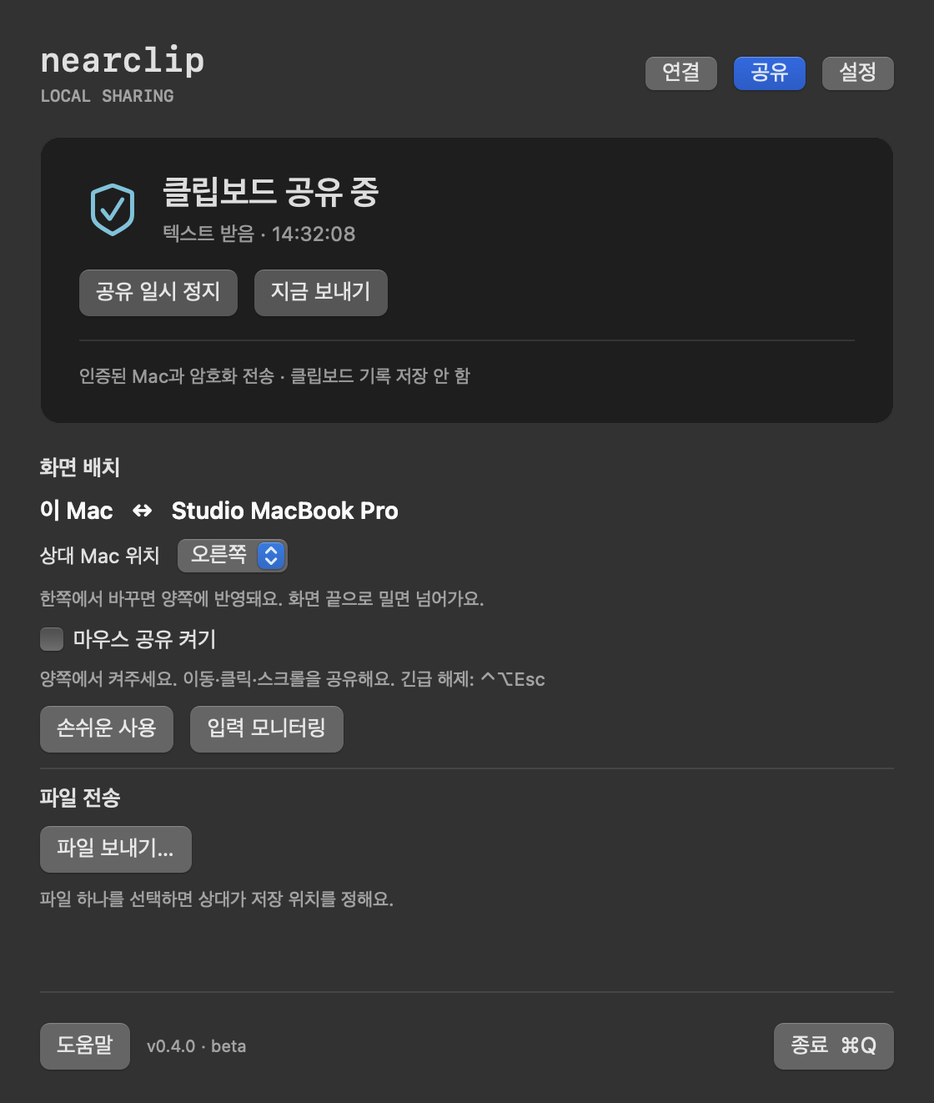
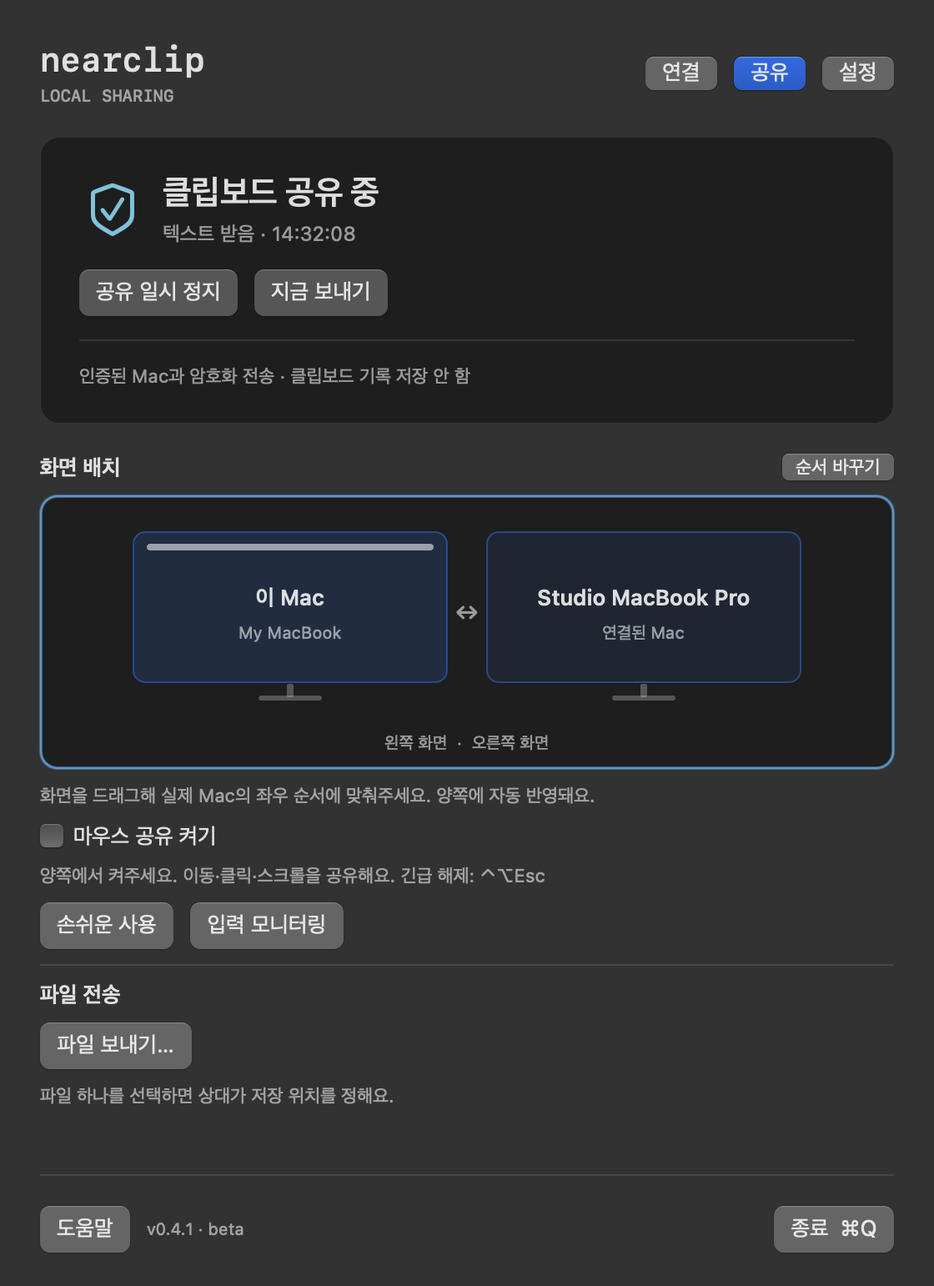
Add draggable Mac screen arrangement controls

diff --git a/Sources/App.swift b/Sources/App.swift
@@ -15,8 +15,9 @@ final class AppDelegate: NSObject, NSApplicationDelegate, NSWindowDelegate {
     private var fileCancel: NSButton!
     private var revealButton: NSButton!
     private var mouseToggle: NSButton!
-    private var sidePicker = NSPopUpButton(frame: .zero, pullsDown: false)
-    private let layoutLabel = NSTextField(wrappingLabelWithString: "연결한 Mac의 화면 배치를 여기서 정해요.")
+    private let arrangement = ScreenArrangementView(frame: .zero)
+    private var swapScreens: NSButton!
+    private let arrangementHint = NSTextField(wrappingLabelWithString: "화면을 드래그해 실제 Mac의 좌우 순서에 맞춰주세요.")
     private let mouseHint = NSTextField(wrappingLabelWithString: "양쪽에서 마우스 공유를 켜주세요.")
     private let fileLabel = NSTextField(wrappingLabelWithString: "파일 하나를 선택하면 상대가 저장 위치를 정해요.")
     private let fileProgress = NSProgressIndicator()
@@ -319,10 +320,16 @@ final class AppDelegate: NSObject, NSApplicationDelegate, NSWindowDelegate {
         ], spacing: 12)
         connect.view = inset(column([discoveryView, trustedView], spacing: 0))
         let sharing = NSTabViewItem(identifier: "sharing"); sharing.label = "공유"
-        sidePicker.addItems(withTitles: ["왼쪽", "오른쪽"]); sidePicker.selectItem(at: 1)
-        sidePicker.target = self; sidePicker.action = #selector(changeSide)
-        sidePicker.setAccessibilityLabel("상대 Mac의 화면 위치")
-        layoutLabel.font = .systemFont(ofSize: 14, weight: .semibold); layoutLabel.maximumNumberOfLines = 2
+        arrangement.heightAnchor.constraint(equalToConstant: 164).isActive = true
+        arrangement.onCommit = { [weak self] side in
+            guard let self, self.featurePeer?.features.contains(SharingFeature.mouse) == true, !self.mouse.active else { return }
+            self.mouse.setSide(side)
+        }
+        swapScreens = button("순서 바꾸기", action: #selector(swapScreenOrder))
+        swapScreens.controlSize = .small
+        swapScreens.setAccessibilityLabel("두 Mac의 화면 순서 바꾸기")
+        arrangementHint.font = .systemFont(ofSize: 11); arrangementHint.textColor = .secondaryLabelColor
+        arrangementHint.maximumNumberOfLines = 2
         mouseToggle = NSButton(checkboxWithTitle: "마우스 공유 켜기", target: self, action: #selector(toggleMouse))
         mouseHint.font = .systemFont(ofSize: 11); mouseHint.textColor = .secondaryLabelColor
         fileButton = button("파일 보내기…", action: #selector(sendFile))
@@ -333,9 +340,8 @@ final class AppDelegate: NSObject, NSApplicationDelegate, NSWindowDelegate {
         fileProgress.isIndeterminate = false; fileProgress.minValue = 0; fileProgress.maxValue = 1
         fileProgress.style = .bar; fileProgress.isHidden = true
         sharing.view = inset(column([
-            label("화면 배치", size: 13, weight: .semibold), layoutLabel,
-            row([label("상대 Mac 위치", size: 12), sidePicker, flexible(NSView())]),
-            label("한쪽에서 바꾸면 양쪽에 반영돼요. 화면 끝으로 밀면 넘어가요.", size: 11, color: .secondaryLabelColor),
+            row([flexible(label("화면 배치", size: 13, weight: .semibold)), swapScreens]),
+            arrangement, arrangementHint,
             mouseToggle, mouseHint,
             row([button("손쉬운 사용", action: #selector(accessibilitySettings)), button("입력 모니터링", action: #selector(inputSettings)), flexible(NSView())]),
             separator(), label("파일 전송", size: 13, weight: .semibold),
@@ -585,7 +591,7 @@ final class AppDelegate: NSObject, NSApplicationDelegate, NSWindowDelegate {
         guard let tabView, let window else { return }
         let settings = tabView.selectedTabViewItem?.identifier as? String == "settings"
         let sharing = tabView.selectedTabViewItem?.identifier as? String == "sharing"
-        let height: CGFloat = sharing ? (fileProgress.isHidden ? 304 : 326) : settings ? 250 : (access.isOpen ? (advanced ? 342 : 228) : 108)
+        let height: CGFloat = sharing ? (fileProgress.isHidden ? 414 : 436) : settings ? 250 : (access.isOpen ? (advanced ? 342 : 228) : 108)
         tabHeight.constant = height
         window.contentView?.layoutSubtreeIfNeeded()
         let contentHeight = ceil(mainStack.fittingSize.height + 44)
@@ -678,6 +684,48 @@ final class AppDelegate: NSObject, NSApplicationDelegate, NSWindowDelegate {
         try? mouse.setEnabled(true); toggleSharing()
         require(!mouse.enabled && !enabled, "global pause revokes mouse capture")
         toggleSharing()
+        // Exercise arrangement gestures through AppKit events without posting
+        // system input. A synthetic peer verifies the actual layout callbacks.
+        let other = MouseSharing(local: "arrangement-peer", native: false)
+        other.setPeer(device)
+        let originalSend = mouse.send
+        mouse.send = { [weak other] _, packet, reply in other?.receive(packet, from: self.device); reply(true) }
+        updateFeaturePeer([ConnectedPeer(device: "arrangement-peer", name: "Test Mac", connection: UUID(), features: Set(SharingFeature.supported))])
+        mouse.setSide(.right)
+        let left = CGPoint(x: arrangement.bounds.midX - 110, y: 60)
+        let right = CGPoint(x: arrangement.bounds.midX + 110, y: 60)
+        func gesture(_ type: NSEvent.EventType, _ point: CGPoint) {
+            let location = arrangement.convert(point, to: nil)
+            let event = NSEvent.mouseEvent(with: type, location: location, modifierFlags: [], timestamp: 0, windowNumber: window.windowNumber, context: nil, eventNumber: 1, clickCount: 1, pressure: 0)!
+            switch type {
+            case .leftMouseDown: arrangement.mouseDown(with: event)
+            case .leftMouseDragged: arrangement.mouseDragged(with: event)
+            default: arrangement.mouseUp(with: event)
+            }
+        }
+        let beforeDrag = mouse.layout
+        gesture(.leftMouseDown, right); gesture(.leftMouseDragged, left)
+        require(mouse.layout == beforeDrag && other.layout == beforeDrag, "drag preview does not publish a layout")
+        gesture(.leftMouseUp, left)
+        require(mouse.side == .left && other.side == .right && mouse.layout == other.layout, "dropping peer card updates both Mac layouts")
+        let afterDrop = mouse.layout
+        gesture(.leftMouseDown, right); gesture(.leftMouseUp, right)
+        require(mouse.layout == afterDrop, "clicking a monitor does not rearrange it")
+        gesture(.leftMouseDown, right); gesture(.leftMouseDragged, left)
+        let escape = NSEvent.keyEvent(with: .keyDown, location: .zero, modifierFlags: [], timestamp: 0, windowNumber: window.windowNumber, context: nil, characters: "\u{1b}", charactersIgnoringModifiers: "\u{1b}", isARepeat: false, keyCode: 53)!
+        arrangement.keyDown(with: escape); gesture(.leftMouseUp, left)
+        require(mouse.layout == afterDrop, "Escape cancels a pending arrangement")
+        gesture(.leftMouseDown, right); gesture(.leftMouseDragged, left); gesture(.leftMouseUp, CGPoint(x: -20, y: 60))
+        require(mouse.layout == afterDrop, "dropping outside the canvas keeps the layout")
+        gesture(.leftMouseDown, right); gesture(.leftMouseDragged, left); gesture(.leftMouseUp, left)
+        require(mouse.side == .right && mouse.layout == other.layout, "dragging this Mac also updates both layouts")
+        swapScreens.performClick(nil)
+        require(mouse.side == .left && mouse.layout == other.layout, "accessible swap button updates both Mac layouts")
+        gesture(.leftMouseDown, right); gesture(.leftMouseDragged, left)
+        updateFeaturePeer([])
+        gesture(.leftMouseUp, left)
+        require(mouse.layout == nil && !swapScreens.isEnabled, "disconnect cancels arrangement editing")
+        mouse.send = originalSend
         showSettings(); require(tabView.selectedTabViewItem?.identifier as? String == "settings", "settings navigation")
         access = PairingAccess(hasTrustedPeer: true); refresh()
         require(!access.isOpen && discoveryView.isHidden, "trusted peer hides new pairing controls")
@@ -747,7 +795,7 @@ final class AppDelegate: NSObject, NSApplicationDelegate, NSWindowDelegate {
     @objc private func help() {
         let dialog = NSAlert(); dialog.messageText = "두 Mac에서 NearClip을 켜두세요"
         dialog.informativeText = "① 두 Mac 모두 NearClip 0.3 이상을 켜고 같은 Wi-Fi 또는 LAN에 연결하세요.\n② 한쪽에서 상대 Mac 옆의 ‘연결’을 누르세요.\n③ 양쪽 화면의 6자리 숫자가 같으면 두 Mac에서 모두 연결을 누르세요. 숫자를 전달하거나 입력할 필요 없어요.\n④ 연결됨이 표시되면 새로 복사한 텍스트나 이미지를 다른 Mac에 붙여넣으세요.\n\n권한 요청이 나오면 ‘로컬 네트워크’와 ‘다른 앱에서 붙여넣기’를 허용하세요. 거부했다면 시스템 설정 → 개인정보 보호 및 보안에서 변경할 수 있어요.\n\n텍스트와 실제 이미지 클립보드를 지원해요. Finder의 파일 복사는 지원하지 않아요. 이미지는 20MB·4천만 화소까지예요.\n\n연결 전·일시 정지 중 복사한 내용은 자동 전송하지 않아요. 필요하면 ‘지금 보내기’를 누르세요. 암호 관리자가 비공개로 표시한 내용은 공유하지 않아요.\n\n설정에서 연결 해제를 누르면 기존 연결이 끊어져요. 회사·게스트 Wi-Fi에서 기기 간 통신을 막으면 연결할 수 없어요."
-        dialog.informativeText += "\n\n공유 탭에서 파일을 보내거나 화면 배치를 정할 수 있어요. 마우스 공유는 양쪽에서 직접 켜야 해요. 화면 가장자리로 밀어 이동하고 ⌃⌥Esc로 즉시 끄세요. 키보드 입력은 이 Mac에 남아요. 파일은 상대가 저장 위치를 선택해야 전송돼요."
+        dialog.informativeText += "\n\n공유 탭에서 파일을 보내거나 두 Mac 화면을 드래그해 좌우 순서를 정할 수 있어요. 배치는 양쪽에 반영돼요. 마우스 공유는 양쪽에서 직접 켜야 해요. 화면 가장자리로 밀어 이동하고 ⌃⌥Esc로 즉시 끄세요. 키보드 입력은 이 Mac에 남아요. 파일은 상대가 저장 위치를 선택해야 전송돼요."
         dialog.addButton(withTitle: "확인"); dialog.runModal()
     }
     private func alert(_ message: String) {
@@ -793,19 +841,24 @@ final class AppDelegate: NSObject, NSApplicationDelegate, NSWindowDelegate {
         let supportsFiles = featurePeer?.features.contains(SharingFeature.files) == true
         let supportsMouse = featurePeer?.features.contains(SharingFeature.mouse) == true
         fileButton.isEnabled = enabled && supportsFiles && !files.busy
-        sidePicker.isEnabled = supportsMouse && !mouse.active
+        swapScreens.isEnabled = supportsMouse && !mouse.active
         mouseToggle.isEnabled = enabled && supportsMouse
         mouseToggle.state = mouse.enabled ? .on : .off
-        sidePicker.selectItem(at: mouse.side == .left ? 0 : 1)
-        let name = featurePeer?.name ?? "상대 Mac"
-        layoutLabel.stringValue = mouse.side == .right ? "이 Mac   ↔   " + name : name + "   ↔   이 Mac"
+        arrangement.update(peerID: supportsMouse ? featurePeer?.connection.uuidString : nil,
+                           localName: preview ? "My MacBook" : deviceName,
+                           peerName: featurePeer?.name ?? "상대 Mac", side: mouse.side,
+                           editable: supportsMouse && !mouse.active)
+        arrangementHint.stringValue = mouse.active ? "마우스 제어를 끝낸 뒤 배치를 바꿀 수 있어요. ⌃⌥Esc로 공유를 끄세요." : "화면을 드래그해 실제 Mac의 좌우 순서에 맞춰주세요. 양쪽에 자동 반영돼요."
         if !supportsMouse { mouseHint.stringValue = "두 Mac 모두 0.4 이상으로 연결하면 사용할 수 있어요." }
         else if !mouse.enabled { mouseHint.stringValue = "양쪽에서 켜주세요. 이동·클릭·스크롤을 공유해요. 긴급 해제: ⌃⌥Esc" }
         else if !mouse.remoteEnabled { mouseHint.stringValue = "이 Mac은 준비됐어요. 상대 Mac에서도 마우스 공유를 켜주세요." }
         else { mouseHint.stringValue = "준비됐어요. 가장자리로 밀어 이동하세요. ⌃⌥Esc는 공유를 꺼요." }
         menuMouseStop?.isEnabled = mouse.enabled
     }
-    @objc private func changeSide() { mouse.setSide(sidePicker.indexOfSelectedItem == 0 ? .left : .right) }
+    @objc private func swapScreenOrder() {
+        guard featurePeer?.features.contains(SharingFeature.mouse) == true, !mouse.active else { return }
+        mouse.setSide(mouse.side.opposite)
+    }
     @objc private func toggleMouse() {
         do { try mouse.setEnabled(mouseToggle.state == .on) }
         catch {

diff --git a/Sources/ScreenArrangementView.swift b/Sources/ScreenArrangementView.swift
@@ -1,0 +1,137 @@
+import AppKit
+
+// Each card represents one paired Mac. Only a completed horizontal drop commits.
+final class ScreenArrangementView: NSView {
+    private(set) var peerSide: ScreenSide = .right
+    private var peerID: String?
+    private var localName = "이 Mac"
+    private var peerName = "상대 Mac"
+    private var editable = false
+    private var draggingLocal: Bool?
+    private var dragStart = CGPoint.zero
+    private var dragOffset: CGFloat = 0
+    private var dragCenter: CGFloat = 0
+    private var proposedSide: ScreenSide = .right
+    private var moved = false
+    var onCommit: ((ScreenSide) -> Void)?
+
+    override var isFlipped: Bool { true }
+    override var acceptsFirstResponder: Bool { editable }
+    override var intrinsicContentSize: NSSize { NSSize(width: NSView.noIntrinsicMetric, height: 164) }
+    override init(frame frameRect: NSRect) {
+        super.init(frame: frameRect)
+        setAccessibilityElement(true); setAccessibilityRole(.group)
+        setAccessibilityLabel("Mac 화면 배치")
+        setAccessibilityHelp("두 Mac의 좌우 순서입니다. 순서 바꾸기 버튼으로도 변경할 수 있습니다.")
+        toolTip = "화면을 드래그해 순서를 바꾸세요. 선택 후 방향키로 상대 Mac을 왼쪽이나 오른쪽에 놓을 수도 있어요."
+    }
+    required init?(coder: NSCoder) { fatalError("init(coder:) has not been implemented") }
+
+    func update(peerID: String?, localName: String, peerName: String, side: ScreenSide, editable: Bool) {
+        if self.peerID != peerID || peerSide != side || !editable { cancelDrag() }
+        self.peerID = peerID; self.localName = localName; self.peerName = peerName
+        peerSide = side; self.editable = editable
+        setAccessibilityValue(peerID == nil ? "상대 Mac 연결 대기" : (side == .right ? "이 Mac 왼쪽, \(peerName) 오른쪽" : "\(peerName) 왼쪽, 이 Mac 오른쪽"))
+        window?.invalidateCursorRects(for: self); needsDisplay = true
+    }
+    private var cardSize: NSSize { NSSize(width: min(188, max(100, (bounds.width - 64) / 2)), height: 112) }
+    private func slot(_ side: ScreenSide) -> NSRect {
+        let size = cardSize
+        return NSRect(x: bounds.midX + (side == .left ? -size.width - 12 : 12), y: 22, width: size.width, height: size.height)
+    }
+    private func frame(local: Bool, side: ScreenSide) -> NSRect { slot(local ? side.opposite : side) }
+    private func dragFrame() -> NSRect { NSRect(x: dragCenter - cardSize.width / 2, y: 18, width: cardSize.width, height: cardSize.height) }
+    override func resetCursorRects() {
+        guard editable else { return }
+        addCursorRect(slot(.left), cursor: .openHand); addCursorRect(slot(.right), cursor: .openHand)
+    }
+    override func mouseDown(with event: NSEvent) {
+        guard editable, peerID != nil else { return }
+        let point = convert(event.locationInWindow, from: nil)
+        let local = frame(local: true, side: peerSide).contains(point)
+        guard local || frame(local: false, side: peerSide).contains(point) else { return }
+        window?.makeFirstResponder(self)
+        draggingLocal = local; dragStart = point; moved = false; proposedSide = peerSide
+        dragCenter = frame(local: local, side: peerSide).midX; dragOffset = point.x - dragCenter
+        NSCursor.closedHand.set(); needsDisplay = true
+    }
+    override func mouseDragged(with event: NSEvent) {
+        guard let local = draggingLocal, editable else { return }
+        let point = convert(event.locationInWindow, from: nil)
+        if abs(point.x - dragStart.x) >= 4 { moved = true }
+        guard moved else { return }
+        dragCenter = min(bounds.maxX - cardSize.width / 2 - 8, max(cardSize.width / 2 + 8, point.x - dragOffset))
+        // A dead band prevents rapid slot changes near the midpoint.
+        if dragCenter < bounds.midX - 8 { proposedSide = local ? .right : .left }
+        else if dragCenter > bounds.midX + 8 { proposedSide = local ? .left : .right }
+        needsDisplay = true
+    }
+    override func mouseUp(with event: NSEvent) {
+        guard draggingLocal != nil else { return }
+        let point = convert(event.locationInWindow, from: nil)
+        let commit = editable && moved && bounds.contains(point) && proposedSide != peerSide
+        let result = proposedSide; cancelDrag()
+        if commit { onCommit?(result) }
+    }
+    override func keyDown(with event: NSEvent) {
+        if event.keyCode == 53 { cancelDrag(); return }
+        if editable, event.keyCode == 123 || event.keyCode == 124 {
+            cancelDrag()
+            let side: ScreenSide = event.keyCode == 123 ? .left : .right
+            if side != peerSide { onCommit?(side) }
+            return
+        }
+        super.keyDown(with: event)
+    }
+    override func resignFirstResponder() -> Bool { cancelDrag(); return true }
+    private func cancelDrag() {
+        draggingLocal = nil; moved = false; proposedSide = peerSide
+        window?.invalidateCursorRects(for: self); needsDisplay = true
+    }
+    override func draw(_ dirtyRect: NSRect) {
+        let background = NSBezierPath(roundedRect: bounds.insetBy(dx: 0.5, dy: 0.5), xRadius: 10, yRadius: 10)
+        NSColor.controlBackgroundColor.setFill(); background.fill()
+        NSColor.separatorColor.withAlphaComponent(0.4).setStroke(); background.lineWidth = 1; background.stroke()
+        let side = draggingLocal == nil ? peerSide : proposedSide
+        if let local = draggingLocal {
+            let target = NSBezierPath(roundedRect: frame(local: local, side: side).insetBy(dx: -4, dy: -4), xRadius: 10, yRadius: 10)
+            NSColor.controlAccentColor.withAlphaComponent(0.08).setFill(); target.fill()
+            NSColor.controlAccentColor.withAlphaComponent(0.45).setStroke(); target.setLineDash([4, 4], count: 2, phase: 0); target.stroke()
+            drawCard(local: !local, rect: frame(local: !local, side: side), lifted: false)
+            drawCard(local: local, rect: dragFrame(), lifted: true)
+        } else {
+            drawCard(local: true, rect: frame(local: true, side: side), lifted: false)
+            drawCard(local: false, rect: frame(local: false, side: side), lifted: false)
+            if peerID != nil { drawText("↔", rect: NSRect(x: bounds.midX - 12, y: 61, width: 24, height: 24), size: 16, color: .secondaryLabelColor) }
+        }
+        let caption = peerID == nil ? "연결하면 화면을 배치할 수 있어요" : draggingLocal == nil ? "왼쪽 화면  ·  오른쪽 화면" : "놓으면 양쪽 Mac에 적용돼요"
+        drawText(caption, rect: NSRect(x: 12, y: 142, width: bounds.width - 24, height: 16), size: 10, color: .secondaryLabelColor)
+        if window?.firstResponder === self, editable {
+            NSColor.keyboardFocusIndicatorColor.setStroke(); background.lineWidth = 2; background.stroke()
+        }
+    }
+    private func drawCard(local: Bool, rect: NSRect, lifted: Bool) {
+        let screen = NSRect(x: rect.minX, y: rect.minY, width: rect.width, height: rect.height - 22)
+        let connected = local || peerID != nil
+        let body = NSBezierPath(roundedRect: screen, xRadius: 7, yRadius: 7)
+        NSGraphicsContext.saveGraphicsState()
+        if lifted { let shadow = NSShadow(); shadow.shadowBlurRadius = 8; shadow.shadowOffset = NSSize(width: 0, height: -3); shadow.shadowColor = NSColor.black.withAlphaComponent(0.22); shadow.set() }
+        (connected ? NSColor.controlAccentColor.withAlphaComponent(local ? 0.16 : 0.09) : NSColor.quaternaryLabelColor.withAlphaComponent(0.12)).setFill(); body.fill()
+        NSGraphicsContext.restoreGraphicsState()
+        (connected ? NSColor.controlAccentColor.withAlphaComponent(lifted ? 0.9 : 0.45) : NSColor.separatorColor).setStroke()
+        body.lineWidth = lifted ? 2 : 1; body.stroke()
+        if local {
+            NSColor.labelColor.withAlphaComponent(0.55).setFill()
+            NSBezierPath(roundedRect: NSRect(x: screen.minX + 8, y: screen.minY + 7, width: screen.width - 16, height: 4), xRadius: 2, yRadius: 2).fill()
+        }
+        drawText(local ? "이 Mac" : peerName, rect: NSRect(x: screen.minX + 10, y: screen.minY + 31, width: screen.width - 20, height: 20), size: 13, weight: .semibold, color: connected ? .labelColor : .secondaryLabelColor)
+        drawText(local ? localName : (peerID == nil ? "연결 대기" : "연결된 Mac"), rect: NSRect(x: screen.minX + 10, y: screen.minY + 54, width: screen.width - 20, height: 16), size: 10, color: .secondaryLabelColor)
+        NSColor.tertiaryLabelColor.setFill()
+        NSBezierPath(roundedRect: NSRect(x: rect.midX - 2, y: screen.maxY + 1, width: 4, height: 8), xRadius: 1, yRadius: 1).fill()
+        NSBezierPath(roundedRect: NSRect(x: rect.midX - 19, y: screen.maxY + 8, width: 38, height: 3), xRadius: 1.5, yRadius: 1.5).fill()
+    }
+    private func drawText(_ text: String, rect: NSRect, size: CGFloat, weight: NSFont.Weight = .regular, color: NSColor) {
+        let style = NSMutableParagraphStyle(); style.alignment = .center; style.lineBreakMode = .byTruncatingTail
+        (text as NSString).draw(in: rect, withAttributes: [.font: NSFont.systemFont(ofSize: size, weight: weight), .foregroundColor: color, .paragraphStyle: style])
+    }
+}

diff --git a/README.md b/README.md
@@ -4,9 +4,9 @@
 
 NearClip is a native macOS menu bar app for two Macs on the same local network. Different Apple accounts are supported. No account, cloud service, or third-party runtime is required.
 
-[**Download for macOS**](https://github.com/iyk2h/nearclip/releases/tag/v0.4.0) · [Troubleshooting](docs/TROUBLESHOOTING.md) · [Development](docs/DEVELOPMENT.md) · [Roadmap](docs/ROADMAP.md)
+[**Download for macOS**](https://github.com/iyk2h/nearclip/releases/tag/v0.4.1) · [Troubleshooting](docs/TROUBLESHOOTING.md) · [Development](docs/DEVELOPMENT.md) · [Roadmap](docs/ROADMAP.md)
 
-> **Experimental public beta.** Version 0.4.0 is not notarized by Apple. Mouse and file sharing have automated coverage, but have not yet been validated on two physical Macs. The interface is Korean; this guide includes the button labels.
+> **Experimental public beta.** Version 0.4.1 is not notarized by Apple. Mouse and file sharing have automated coverage, but have not yet been validated on two physical Macs. The interface is Korean; this guide includes the button labels.
 
 ![NearClip sharing controls](docs/sharing.png)
 
@@ -15,7 +15,7 @@ NearClip is a native macOS menu bar app for two Macs on the same local network. 
 Use macOS 13 or later. Apple Silicon and Intel are supported. On both Macs:
 
 1. Quit the previous NearClip, if it is running.
-2. Download `NearClip-0.4.0-macOS.dmg` from the [release page](https://github.com/iyk2h/nearclip/releases/tag/v0.4.0).
+2. Download `NearClip-0.4.1-macOS.dmg` from the [release page](https://github.com/iyk2h/nearclip/releases/tag/v0.4.1).
 3. Open the DMG and drag **NearClip** to **Applications**.
 4. Open NearClip and allow local network access when macOS asks.
 
@@ -39,17 +39,17 @@ Copies made before connection or while paused are not sent automatically. Use **
 
 ## Mouse and screen layout
 
-Both Macs need 0.4 or later.
+Use 0.4.1 or later for the graphical arrangement controls. Mouse sharing works with a paired Mac running 0.4 or later.
 
 1. Open **Sharing (`공유`)**.
-2. Set **Other Mac position (`상대 Mac 위치`)** to **Left (`왼쪽`)** or **Right (`오른쪽`)**. The other Mac receives the matching layout automatically.
+2. Drag either monitor card to match the Macs' physical left-to-right order. Release it to apply the same order on both Macs. You can also use **Swap order (`순서 바꾸기`)**.
 3. Enable **Mouse sharing (`마우스 공유 켜기`)** on both Macs.
 4. Allow **Accessibility (`손쉬운 사용`)** and **Input Monitoring (`입력 모니터링`)** in System Settings if requested. Then enable mouse sharing again.
 5. Push the cursor against the configured outer edge to cross to the other Mac. Return through the edge where it entered.
 
 **Press `⌃⌥Esc` to disable mouse sharing and reclaim control.** Local mouse input on the receiving Mac also reclaims control. A lost connection releases held buttons and returns control. Re-enable sharing after a disconnect, pause, or app restart.
 
-Movement, left/right/middle clicks, dragging within the receiving Mac, and scrolling are supported. Keyboard input stays on the local Mac and ends remote mouse control. This version does not drag files across the screen boundary. Horizontal screen placement is supported; vertical placement is not yet included.
+Movement, left/right/middle clicks, dragging within the receiving Mac, and scrolling are supported. Keyboard input stays on the local Mac and ends remote mouse control. This version does not drag files across the screen boundary. Each card represents one Mac, including its attached displays. This version sets horizontal Mac order; individual monitor placement and vertical arrangements are not included. Press Escape while dragging to cancel. End remote mouse control before changing the arrangement.
 
 ## Files
 

diff --git a/docs/VALIDATION.md b/docs/VALIDATION.md
@@ -1,4 +1,4 @@
-# 0.4.0 validation
+# 0.4.1 validation
 
 Validated locally on macOS 15.7.2, Apple Silicon. File and mouse sharing are experimental. No claim of successful physical two-Mac mouse control is made.
 
@@ -20,13 +20,13 @@ Coverage includes:
 
 The packaged app passed Bonjour discovery and numeric pairing, encrypted synthetic clipboard transfer, a streamed file with digest verification, encrypted layout exchange, and session cleanup under its actual bundle identity.
 
-The preview-mode lifecycle diagnostic passed **17 checks**, including menu-bar Quit, Command-Q, pause/resume, sharing/settings navigation, input default-off state, pause revoking input control, pairing controls, stable window geometry, hide/reopen, and termination.
+The preview-mode lifecycle diagnostic passed **25 checks**, including menu-bar Quit, Command-Q, pause/resume, sharing/settings navigation, input default-off state, pause revoking input control, pairing controls, stable window geometry, hide/reopen, and termination. Arrangement checks exercise AppKit drag events without posting system input: no publication before drop, dragging either card updates a synthetic peer, clicks preserve order, Escape and outside drops cancel, the accessible swap action synchronizes, and disconnects cancel editing.
 
 These are same-Mac synthetic tests. They do not replace physical-device input testing.
 
 ## UI review
 
-Light and dark sharing screens were rendered and inspected. Connection and settings screens were also checked after adding the Sharing tab. The previews use synthetic device names and no real connection.
+Light, dark, and disconnected sharing screens were rendered and inspected. Connection and settings screens were also checked after adding the Sharing tab. The previews use synthetic device names and no real connection.
 
 - [Sharing, light appearance](sharing.png)
 - [Sharing, dark appearance](sharing-dark.png)

diff --git a/docs/TROUBLESHOOTING.md b/docs/TROUBLESHOOTING.md
@@ -40,7 +40,7 @@ NearClip tries to reconnect after wake. If the saved address is no longer valid 
 1. Use NearClip 0.4 or later on both Macs.
 2. Open Sharing (`공유`) and enable Mouse sharing (`마우스 공유 켜기`) on both.
 3. Allow NearClip in **System Settings → Privacy & Security → Accessibility** and **Input Monitoring**. Return to the app and enable sharing again. A restart may be needed after changing input permissions.
-4. Set the other Mac's position on one Mac. Both screens receive the layout.
+4. In 0.4.1 or later, drag the monitor cards into the correct left-to-right order. Both Macs receive the layout. End remote mouse control before rearranging.
 5. Push against the outer edge briefly with no mouse buttons or modifier keys held. A boundary between this Mac's own monitors does not hand off.
 
 Press `⌃⌥Esc` to stop mouse sharing. Typing stays local and returns mouse control. Re-enable sharing after a pause, disconnect, or app restart. A slow network or a large clipboard frame can trigger the watchdog and return control; this behavior fails safely but can interrupt use.

diff --git a/docs/ROADMAP.md b/docs/ROADMAP.md
@@ -5,7 +5,7 @@
 - Text and image clipboard sync between Macs.
 - Explicit, recipient-approved single-file transfer.
 - Opt-in mouse movement, clicks, and scrolling across a screen edge.
-- Shared horizontal device layout, set from either Mac.
+- Drag-to-arrange monitor cards for shared left-to-right Mac order, set from either Mac.
 
 ## Next validation work
 
@@ -22,7 +22,7 @@ The current app and binaries are macOS-only. No Windows release date is set.
 - English interface.
 - Keyboard sharing with separate opt-in and held-key cleanup.
 - File batches, folders, resumable transfers, and drag-and-drop sending.
-- Vertical screen layout and richer monitor arrangement.
+- Individual display placement, vertical arrangement, and alignment between displays.
 - Separate interactive/bulk network channels if latency testing justifies them.
 
 ## Naming

diff --git a/CHANGELOG.md b/CHANGELOG.md
@@ -1,5 +1,13 @@
 # Changelog
 
+## 0.4.1 — 2026-11-12
+
+- Replace the left/right menu with draggable monitor cards for the two paired Macs.
+- Apply a completed drop to both Macs through the existing authenticated layout protocol.
+- Add a keyboard-accessible Swap order button and cancel incomplete drags on Escape, connection changes, or remote layout changes.
+- Keep arrangement edits unavailable during remote mouse control.
+- Show connection state, identify this Mac, and update the English setup guide.
+
 ## 0.4.0 — 2026-11-12
 
 - Add explicit single-file transfer, up to 2 GiB, with recipient acceptance, progress, cancellation, checksums, and safe saving.

diff --git a/docs/DEVELOPMENT.md b/docs/DEVELOPMENT.md
@@ -67,6 +67,7 @@ Tag the tested commit, then attach the packages and checksums to a GitHub prerel
 | `Transport.swift` | Authenticated clipboard sessions and reconnect |
 | `Preferences.swift` | Address parsing, saved route model, and pairing access policy |
 | `SharingProtocol.swift` | Portable file/mouse message schema and layout state |
+| `ScreenArrangementView.swift` | Draggable Mac arrangement canvas and keyboard alternative |
 | `MouseGeometry.swift` | Display edge and position calculations |
 | `MouseSharing.swift` | Input session state and macOS event adapter |
 | `FileTransfer.swift` | Transfer state, background I/O, and safe destination commit |
